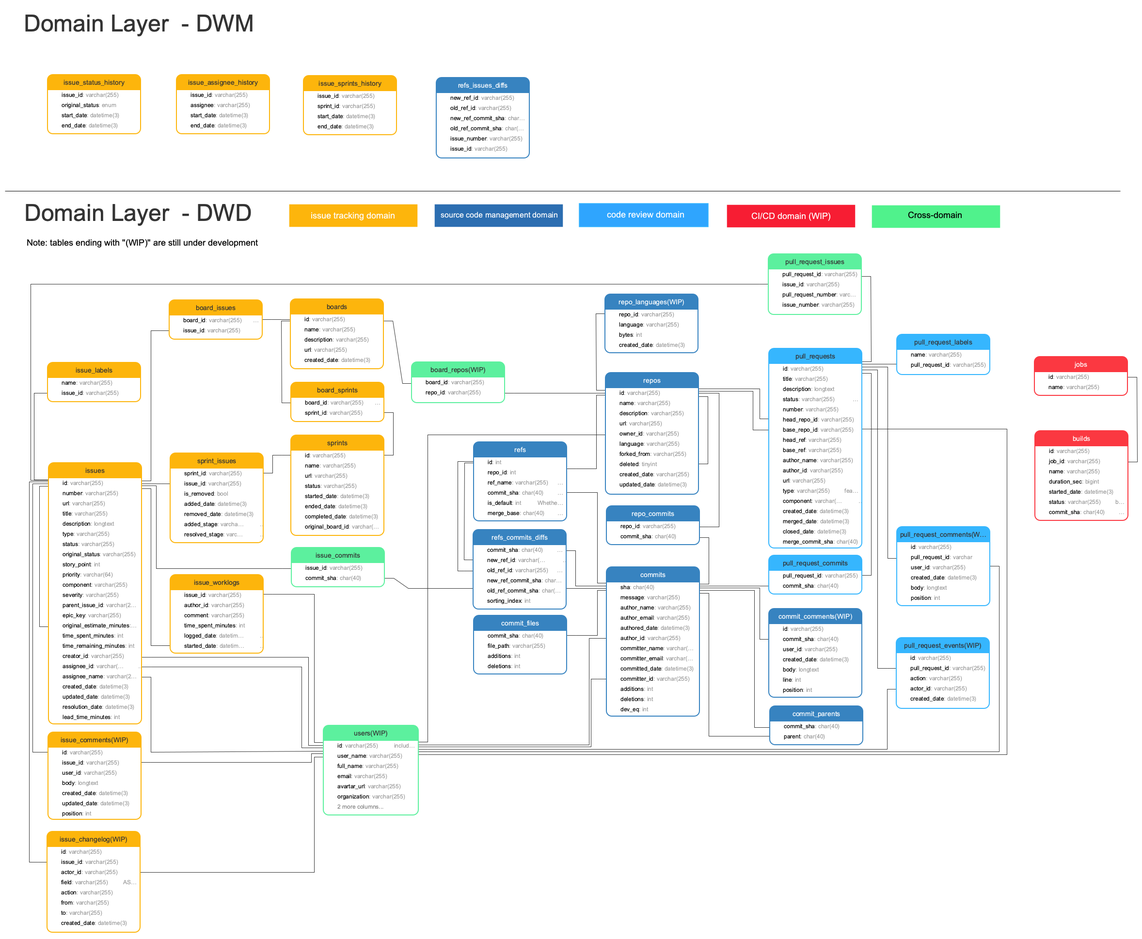
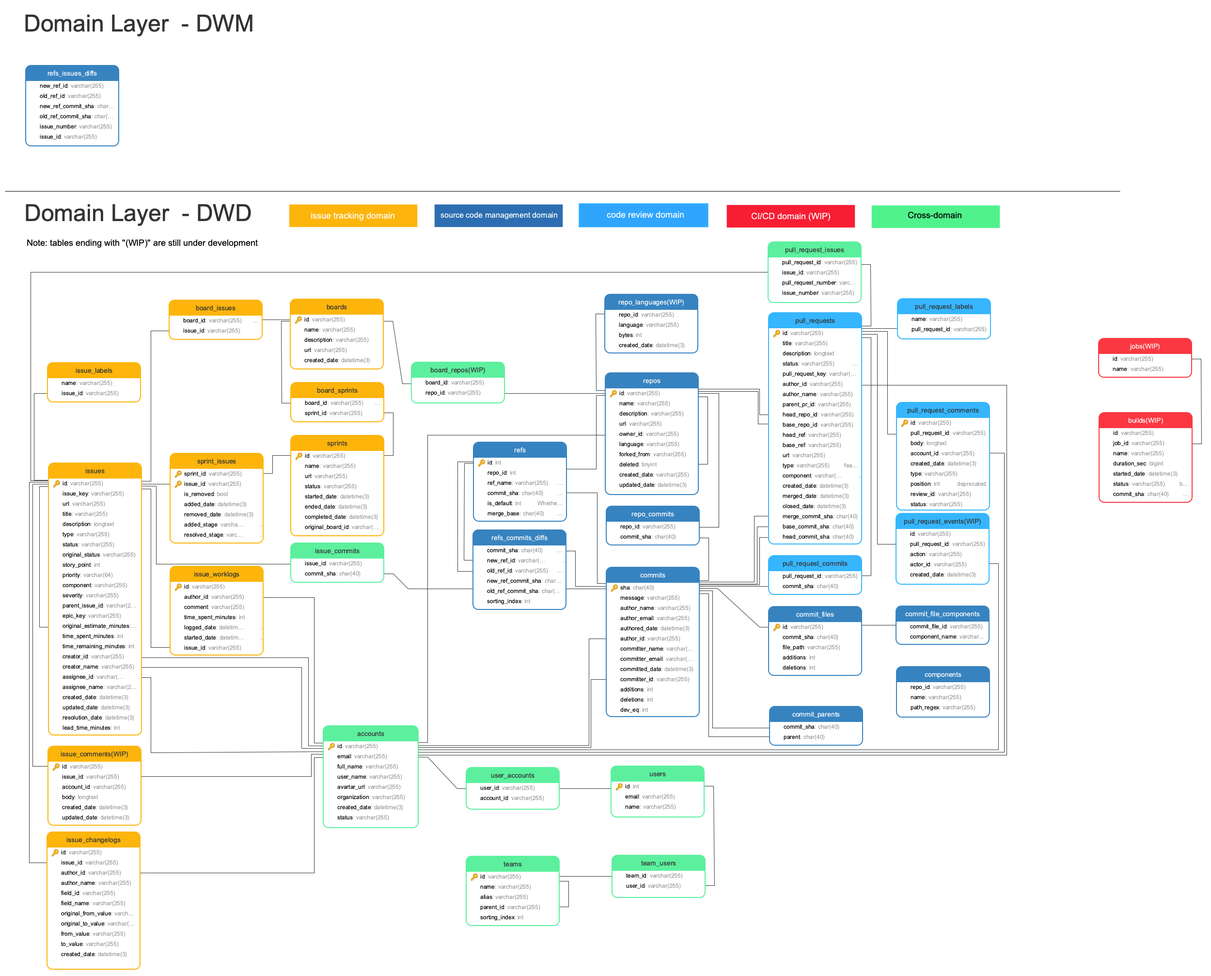
docs: update data schema diagram

diff --git a/docs/DataModels/DevLakeDomainLayerSchema.md b/docs/DataModels/DevLakeDomainLayerSchema.md
@@ -22,11 +22,11 @@ Domain layer schema itself includes 2 logical layers: a `DWD` layer and a `DWM` 
 ## Data Models
 
 This is the up-to-date domain layer schema for DevLake v0.10.x. Tables (entities) are categorized into 5 domains.
-1. Issue tracking domain entities: Jira issues, GitHub issues, GitLab issues, etc
-2. Source code management domain entities: Git/GitHub/Gitlab commits and refs, etc
-3. Code review domain entities: GitHub PRs, Gitlab MRs, etc
-4. CI/CD domain entities: Jenkins jobs & builds, etc
-5. Cross-domain entities: entities that map entities from different domains to break data isolation
+1. Issue tracking domain entities: Jira issues, GitHub issues, GitLab issues, etc.
+2. Source code management domain entities: Git/GitHub/Gitlab commits and refs(tags and branches), etc.
+3. Code review domain entities: GitHub PRs, Gitlab MRs, etc.
+4. CI/CD domain entities: Jenkins jobs & builds, etc.
+5. Cross-domain entities: entities that map entities from different domains to break data isolation.
 
 
 ### Schema Diagram
@@ -49,14 +49,14 @@ Tables that end with WIP are still under development.
 
 ### Domain 1 - Issue Tracking
 
-#### 1. Issues
+#### issues
 
 An `issue` is the abstraction of Jira/Github/GitLab/TAPD/... issues.
 
 | **field**                   | **type** | **length** | **description**                                                                                                                                                                                                                                                                                                                                                                                                                                                                                                                                                                                          | **key** |
 | :-------------------------- | :------- | :--------- | :------------------------------------------------------------------------------------------------------------------------------------------------------------------------------------------------------------------------------------------------------------------------------------------------------------------------------------------------------------------------------------------------------------------------------------------------------------------------------------------------------------------------------------------------------------------------------------------------------- | :------ |
 | `id`                        | varchar  | 255        | An issue's `id` is composed of < plugin >:< Entity >:< PK0 >[:PK1]..." <ul><li>For Github issues, a Github issue's id is like "github:GithubIssues:< GithubIssueId >". Eg. 'github:GithubIssues:1049355647'</li> <li>For Jira issues, a Github repo's id is like "jira:JiraIssues:< JiraSourceId >:< JiraIssueId >". Eg. 'jira:JiraIssues:1:10063'. < JiraSourceId > is used to identify which jira source the issue came from, since DevLake users can import data from several different Jira instances at the same time.</li></ul>                                                                    | PK      |
-| `number`                    | varchar  | 255        | The number of this issue. For example, the number of this Github [issue](https://github.com/merico-dev/lake/issues/1145) is 1145.                                                                                                                                                                                                                                                                                                                                                                                                                                                                        |         |
+| `issue_key`                 | varchar  | 255        | The key of this issue. For example, the key of this Github [issue](https://github.com/merico-dev/lake/issues/1145) is 1145.                                                                                                                                                                                                                                                                                                                                                                                                                                                                        |         |
 | `url`                       | varchar  | 255        | The url of the issue. It's a web address in most cases.                                                                                                                                                                                                                                                                                                                                                                                                                                                                                                                                                  |         |
 | `title`                     | varchar  | 255        | The title of an issue                                                                                                                                                                                                                                                                                                                                                                                                                                                                                                                                                                                    |         |
 | `description`               | longtext |            | The detailed description/summary of an issue                                                                                                                                                                                                                                                                                                                                                                                                                                                                                                                                                             |         |
@@ -73,6 +73,7 @@ An `issue` is the abstraction of Jira/Github/GitLab/TAPD/... issues.
 | `time_spent_minutes`         | int      |            | The orginal estimation of the time allocated for this issue                                                                                                                                                                                                                                                                                                                                                                                                                                                                                                                                             |         |
 | `time_remaining_minutes`     | int      |            | The remaining time to resolve the issue                                                                                                                                                                                                                                                                                                                                                                                                                                                                                                                                                                 |         |
 | `creator_id`                 | varchar  | 255        | The id of issue creator                                                                                                                                                                                                                                                                                                                                                                                                                                                                                                                                                                                 |         |
+| `creator_name`              | varchar  | 255        | The name of the creator                                                                                                                                                                                                                                                                                                                                                                                                                                                                                                                                                                                 |         |
 | `assignee_id`               | varchar  | 255        | The id of issue assignee.<ul><li>For Github issues: this is the last assignee of an issue if the issue has multiple assignees</li><li>For Jira issues: this is the assignee of the issue at the time of collection</li></ul>                                                                                                                                                                                                                                                                                                                                                           |         |
 | `assignee_name`             | varchar  | 255        | The name of the assignee                                                                                                                                                                                                                                                                                                                                                                                                                                                                                                                                                                                 |         |
 | `created_date`              | datetime | 3          | The time issue created                                                                                                                                                                                                                                                                                                                                                                                                                                                                                                                                                                                   |         |
@@ -80,7 +81,7 @@ An `issue` is the abstraction of Jira/Github/GitLab/TAPD/... issues.
 | `resolution_date`           | datetime | 3          | The time the issue changes to 'DONE'.                                                                                                                                                                                                                                                                                                                                                                                                                                                                                                                                                                    |         |
 | `lead_time_minutes`         | int      |            | Describes the cycle time from issue creation to issue resolution.<ul><li>For issues whose type = 'REQUIREMENT' and status = 'DONE', lead_time_minutes = resolution_date - created_date. The unit is minute.</li><li>For issues whose type != 'REQUIREMENT' or status != 'DONE', lead_time_minutes is null</li></ul>                                                                                                                                                                                                                                                                    |         |
 
-#### 2. issue_labels
+#### issue_labels
 
 This table shows the labels of issues. Multiple entries can exist per issue. This table can be used to filter issues by label name.
 
@@ -90,7 +91,7 @@ This table shows the labels of issues. Multiple entries can exist per issue. Thi
 | `issue_id` | varchar  | 255        | Issue ID        | FK_issues.id |
 
 
-#### 3. issue_comments(WIP)
+#### issue_comments(WIP)
 
 This table shows the comments of issues. Issues with multiple comments are shown as multiple records. This table can be used to calculate _metric - issue response time_.
 
@@ -102,9 +103,8 @@ This table shows the comments of issues. Issues with multiple comments are shown
 | `body`         | longtext |            | The body/detail of the comment                                                                                                                                                                |              |
 | `created_date` | datetime | 3          | The creation date of the comment                                                                                                                                                              |              |
 | `updated_date` | datetime | 3          | The last time comment gets updated                                                                                                                                                            |              |
-| `position`     | int      |            | The position of a comment under an issue. It starts from 1. The position is sorted by comment created_date asc.<br/>Eg. If an issue has 5 comments, the position of the 1st created comment is 1. |              |
 
-#### 4. issue_changelogs
+#### issue_changelogs
 
 This table shows the changelogs of issues. Issues with multiple changelogs are shown as multiple records. This is transformed from Jira or TAPD changelogs.
 
@@ -123,21 +123,22 @@ This table shows the changelogs of issues. Issues with multiple changelogs are s
 | `created_date`        | datetime | 3          | The creation date of the changelog                               |                |
 
 
-#### 5. issue_worklogs
+#### issue_worklogs
 
 This table shows the work logged under issues. Usually, an issue has multiple worklogs logged by different developers.
 
 | **field**            | **type** | **length** | **description**                                                                              | **key**          |
 | :------------------- | :------- | :--------- | :------------------------------------------------------------------------------------------- | :--------------- |
-| `issue_id`           | varchar  | 255        | Issue ID                                                                                     | FK_issues.id     |
+| `id`                 | varchar  | 255        | The id of the worklog                                                                                      | PK               |
 | `author_id`          | varchar  | 255        | The id of the author who logged the work                                                     | FK_acccounts.id  |
-| `comment`            | varchar  | 255        | The comment made while logging the work.                                                     |                  |
+| `comment`            | longtext | 255        | The comment made while logging the work.                                                     |                  |
 | `time_spent_minutes` | int      |            | The time logged. The unit of value is normalized to minute. Eg. 1d =) 480, 4h30m =) 270      |                  |
 | `logged_date`        | datetime | 3          | The time of this logging action                                                              |                  |
 | `started_date`       | datetime | 3          | Start time of the worklog                                                                    |                  |
+| `issue_id`           | varchar  | 255        | Issue ID                                                                                     | FK_issues.id     |
 
 
-#### 6. boards
+#### boards
 
 A `board` is an issue list or a collection of issues. It's the abstraction of a Jira board, a Jira project, a [Github issue list](https://github.com/merico-dev/lake/issues) or a GitLab issue list. This table can be used to filter issues by the boards they belong to.
 
@@ -173,7 +174,7 @@ A `sprint` is the abstraction of Jira sprints, TAPD iterations and Github milest
 | `completed_date`    | datetime | 3          | The actual time to complete a sprint.                                                                                                                                                                                                                                                                                                                                                                                                                                                                                                                                                                   |              |
 | `original_board_id` | datetime | 3          | The id of board where the sprint first created. This field is not null only when this entity is transformed from Jira sprintas.<br/>In Jira, sprint and board entities have 2 types of relation:<ul><li>A sprint is created based on a specific board. In this case, board(1):(n)sprint. The `original_board_id` is used to show the relation.</li><li>A sprint can be mapped to multiple boards, a board can also show multiple sprints. In this case, board(n):(n)sprint. This relation is shown in [table.board_sprints](https://merico.feishu.cn/docs/doccnvyuG9YpVc6lvmWkmmbZtUc#xfm617)</li></ul> | FK_boards.id |
 
-#### 9. sprint_issues
+#### sprint_issues
 
 This table shows the relation between sprints and issues that have been added to sprints. This table can be used to show metrics such as _'ratio of unplanned issues'_, _'completion rate of sprint issues'_, etc
 
@@ -187,7 +188,7 @@ This table shows the relation between sprints and issues that have been added to
 | `added_stage`    | varchar  | 255        | The stage when issue is added to this sprint. There're 3 possible values:<ul><li>BEFORE_SPRINT<br/>Planning before sprint starts.<br/> Condition: sprint_issues.added_date <= sprints.start_date</li><li>DURING_SPRINT Planning during a sprint.<br/>Condition: sprints.start_date < sprint_issues.added_date <= sprints.end_date</li><li>AFTER_SPRINT<br/>Planing after a sprint. This is caused by improper operation - adding issues to a completed sprint.<br/>Condition: sprint_issues.added_date ) sprints.end_date</li></ul> |               |
 | `resolved_stage` | varchar  | 255        | The stage when an issue is resolved (issue status turns to 'DONE'). There're 3 possible values:<ul><li>BEFORE_SPRINT<br/>Condition: issues.resolution_date <= sprints.start_date</li><li>DURING_SPRINT<br/>Condition: sprints.start_date < issues.resolution_date <= sprints.end_date</li><li>AFTER_SPRINT<br/>Condition: issues.resolution_date ) sprints.end_date</li></ul>                                                                                                                                                       |               |
 
-#### 10. board_sprints
+#### board_sprints
 
 | **field**   | **type** | **length** | **description** | **key**       |
 | :---------- | :------- | :--------- | :-------------- | :------------ |
@@ -198,7 +199,7 @@ This table shows the relation between sprints and issues that have been added to
 
 ### Domain 2 - Source Code Management
 
-#### 11. repos
+#### repos
 
 Information about Github or Gitlab repositories. A repository is always owned by a user.
 
@@ -215,7 +216,7 @@ Information about Github or Gitlab repositories. A repository is always owned by
 | `created_date` | datetime | 3          | Repo creation date                                                                                                                                                                             |             |
 | `updated_date` | datetime | 3          | Last full update was done for this repo                                                                                                                                                        |             |
 
-#### 12. repo_languages(WIP)
+#### repo_languages(WIP)
 
 Languages that are used in the repository along with byte counts for all files in those languages. This is in line with how Github calculates language percentages in a repository. Multiple entries can exist per repo.
 
@@ -228,7 +229,7 @@ The table is filled in when the repo has been first inserted on when an update r
 | `bytes`        | int      |            | The byte counts for all files in those languages                                                                                                                                                   |         |
 | `created_date` | datetime | 3          | The field is filled in with the latest timestamp the query for a specific `repo_id` was done.                                                                                                      |         |
 
-#### 13. repo_commits
+#### repo_commits
 
 The commits belong to the history of a repository. More than one repos can share the same commits if one is a fork of the other.
 
@@ -237,7 +238,7 @@ The commits belong to the history of a repository. More than one repos can share
 | `repo_id`    | varchar  | 255        | Repo id         | FK_repos.id    |
 | `commit_sha` | char     | 40         | Commit sha      | FK_commits.sha |
 
-#### 14. refs
+#### refs
 
 A ref is the abstraction of a branch or tag.
 
@@ -251,7 +252,7 @@ A ref is the abstraction of a branch or tag.
 | `merge_base` | char     | 40         | The merge base commit of the main ref and the current ref                                                                                                                                                                                                                                                                                                   |             |
 | `ref_type`   | varchar  | 64         | There're 2 typical types:<ul><li>BRANCH</li><li>TAG</li></ul>                                                                                                                                                                                                                                                                                               |             |
 
-#### 15. refs_commits_diffs
+#### refs_commits_diffs
 
 This table shows the commits added in a new ref compared to an old ref. This table can be used to support tag-based analysis, for instance, '_No. of commits of a tag_', '_No. of merged pull request of a tag_', etc.
 
@@ -282,7 +283,7 @@ The records of this table are computed by [RefDiff](https://github.com/merico-de
 | `committer_id`    | varchar  | 255        | The id of committer                                                                                                                                              | FK_accounts.id    |
 | `additions`       | int      |            | Added lines of code                                                                                                                                              |                |
 | `deletions`       | int      |            | Deleted lines of code                                                                                                                                            |                |
-| `dev_eq`          | int      |            | A metric that quantifies the amount of code contribution. The data can be retrieved from [AE plugin](https://github.com/merico-dev/lake/tree/v0.9.3/plugins/ae). |                |
+| `dev_eq`          | int      |            | A metric that quantifies the amount of code contribution. The data can be retrieved from [AE plugin](https://github.com/apache/incubator-devlake/tree/main/plugins/ae). |                |
 
 #### commit_files
 
@@ -328,7 +329,7 @@ The parent commit(s) for each commit, as specified by Git.
 
 ### Domain 3 - Code Review
 
-#### 20. pull_requests
+#### pull_requests
 
 A pull request is the abstraction of Github pull request and Gitlab merge request.
 
@@ -338,7 +339,8 @@ A pull request is the abstraction of Github pull request and Gitlab merge reques
 | `title`            | varchar  | 255        | The title of pull request                                                                                                                                                                                                                                                                                                                                                                      |                |
 | `description`      | longtext |            | The body/description of pull request                                                                                                                                                                                                                                                                                                                                                           |                |
 | `status`           | varchar  | 255        | the status of pull requests. For a Github pull request, the status can either be 'open' or 'closed'.                                                                                                                                                                                                                                                                                           |                |
-| `number`           | varchar  | 255        | The number of PR. Eg, 1536 is the number of this [PR](https://github.com/merico-dev/lake/pull/1563)                                                                                                                                                                                                                                                                                            |                |
+| `parent_pr_id`     | varchar  | 255        | The id of the parent PR                                                                                                                                                                                                                                                                                               |                |
+| `pull_request_key` | varchar  | 255        | The key of PR. Eg, 1536 is the key of this [PR](https://github.com/merico-dev/lake/pull/1563)                                                                                                                                                                                                                                                                                            |                |
 | `base_repo_id`     | varchar  | 255        | The repo that will be updated.                                                                                                                                                                                                                                                                                                                                                                 |                |
 | `head_reop_id`     | varchar  | 255        | The repo containing the changes that will be added to the base. If the head repository is NULL, this means that the corresponding project had been deleted when DevLake processed the pull request.                                                                                                                                                                                            |                |
 | `base_ref`         | varchar  | 255        | The branch name in the base repo that will be updated                                                                                                                                                                                                                                                                                                                                          |                |
@@ -352,8 +354,11 @@ A pull request is the abstraction of Github pull request and Gitlab merge reques
 | `merged_date`      | datetime | 3          | The time PR gets merged. Null when the PR is not merged.                                                                                                                                                                                                                                                                                                                                       |                |
 | `closed_date`      | datetime | 3          | The time PR closed. Null when the PR is not closed.                                                                                                                                                                                                                                                                                                                                            |                |
 | `merge_commit_sha` | char     | 40         | the merge commit of this PR. By the definition of [Github](https://docs.github.com/en/repositories/configuring-branches-and-merges-in-your-repository/managing-branches-in-your-repository/changing-the-default-branch), when you click the default Merge pull request option on a pull request on Github, all commits from the feature branch are added to the base branch in a merge commit. |                |
+| `base_commit_sha` | char     | 40         | The base commit of this PR.      |                |
+| `head_commit_sha` | char     | 40         | The head commit of this PR.      |                |
 
-#### 21. pull_request_labels
+
+#### pull_request_labels
 
 This table shows the labels of pull request. Multiple entries can exist per pull request. This table can be used to filter pull requests by label name.
 
@@ -362,7 +367,7 @@ This table shows the labels of pull request. Multiple entries can exist per pull
 | `name`            | varchar  | 255        | Label name      |                     |
 | `pull_request_id` | varchar  | 255        | Pull request ID | FK_pull_requests.id |
 
-#### 22. pull_request_commits
+#### pull_request_commits
 
 A commit associated with a pull request
 
@@ -390,7 +395,7 @@ Normal comments, review bodies, reviews' inline comments of GitHub's pull reques
 | `status`          | varchar  | 255        | Status of the comment                                      |                     |
 
 
-#### 24. pull_request_events(WIP)
+#### pull_request_events(WIP)
 
 Events of pull requests.
 
@@ -406,7 +411,7 @@ Events of pull requests.
 
 ### Domain 4 - CI/CD(WIP)
 
-#### 25. jobs
+#### jobs
 
 The CI/CD schedule, not a specific task.
 
@@ -415,7 +420,7 @@ The CI/CD schedule, not a specific task.
 | `id`      | varchar  | 255        | Job id          | PK      |
 | `name`    | varchar  | 255        | Name of job     |         |
 
-#### 26. builds
+#### builds
 
 A build is an execution of a job.
 
@@ -436,7 +441,7 @@ These entities are used to map entities between different domains. They are the 
 
 There're low-level entities such as issue_commits, users, and higher-level cross domain entities such as board_repos
 
-#### 27. issue_commits
+#### issue_commits
 
 A low-level mapping between "issue tracking" and "source code management" domain by mapping `issues` and `commits`. Issue(n): Commit(n).
 
@@ -449,7 +454,7 @@ For example, a common method to connect Jira issue and GitLab commit is a GitLab
 | `issue_id`   | varchar  | 255        | Issue id        | FK_issues.id   |
 | `commit_sha` | char     | 40         | Commit sha      | FK_commits.sha |
 
-#### 28. pull_request_issues
+#### pull_request_issues
 
 This table shows the issues closed by pull requests. It's a medium-level mapping between "issue tracking" and "source code management" domain by mapping issues and commits. Issue(n): Commit(n).
 
@@ -459,8 +464,8 @@ The data is extracted from the body of pull requests conforming to certain regul
 | :-------------------- | :------- | :--------- | :------------------ | :------------------ |
 | `pull_request_id`     | char     | 40         | Pull request id     | FK_pull_requests.id |
 | `issue_id`            | varchar  | 255        | Issue id            | FK_issues.id        |
-| `pull_request_number` | varchar  | 255        | Pull request number |                     |
-| `issue_number`        | varchar  | 255        | Issue number        |                     |
+| `pull_request_number` | varchar  | 255        | Pull request key    |                     |
+| `issue_number`        | varchar  | 255        | Issue key           |                     |
 
 #### board_repos (Deprecated)
 
